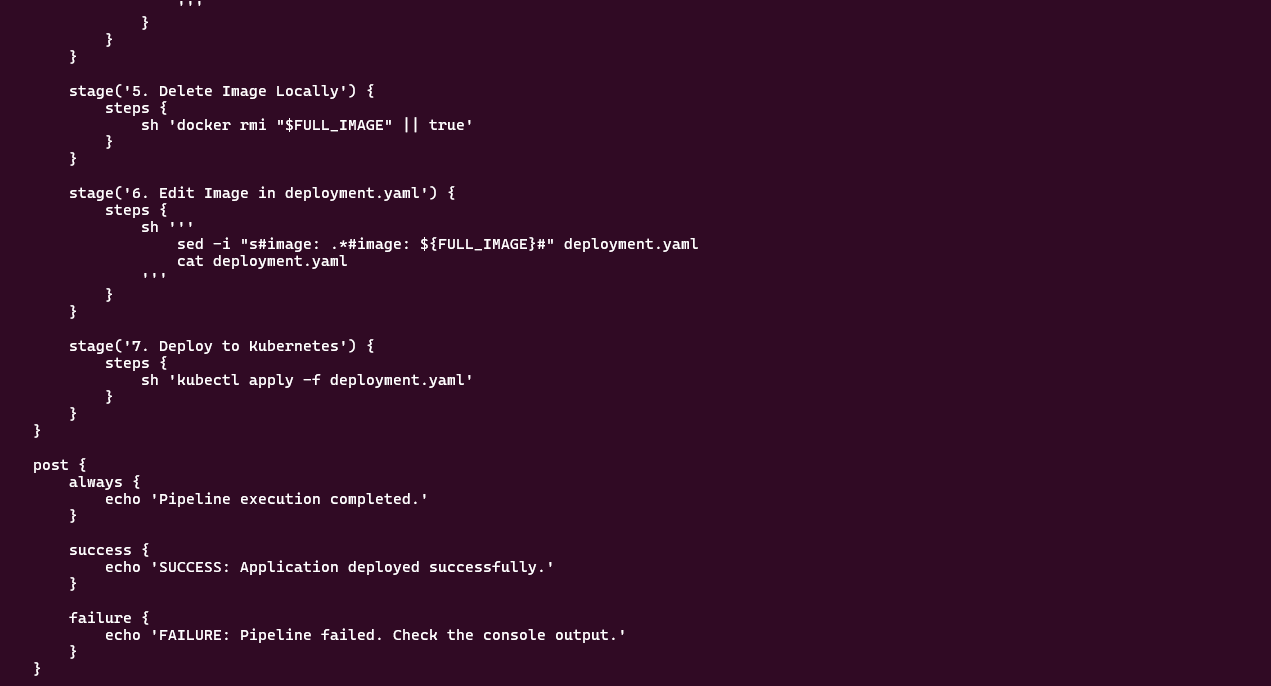
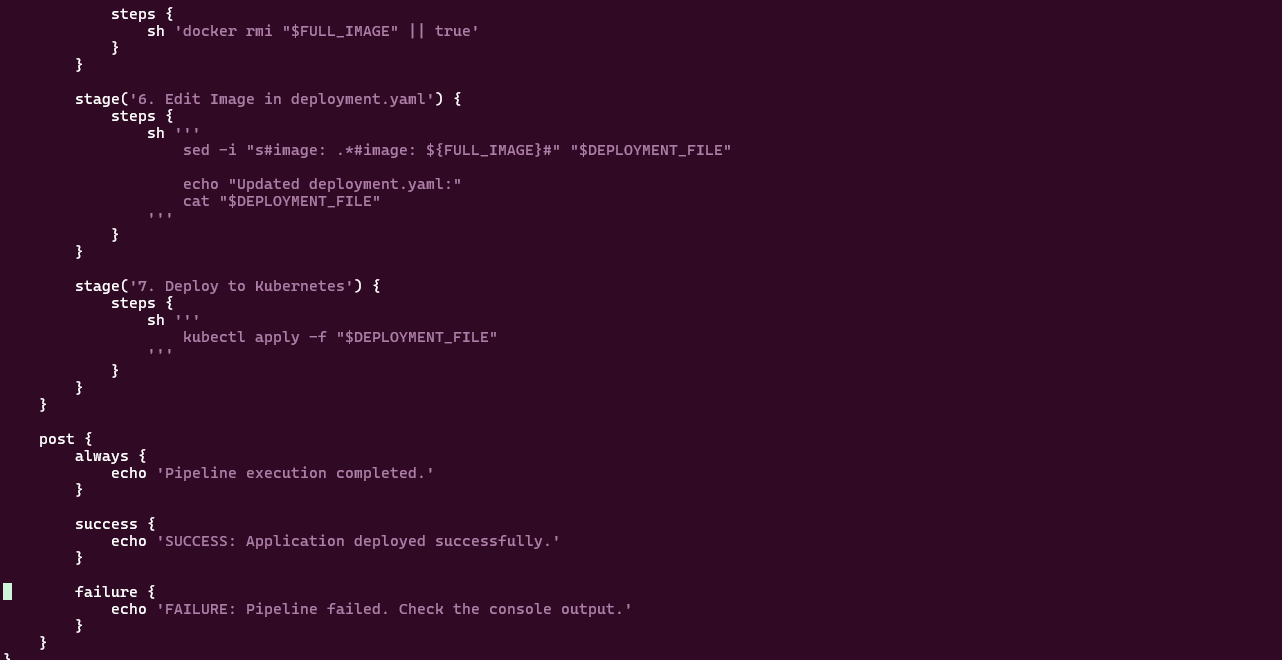
added readme file

diff --git a/CICD/lab22/README.md b/CICD/lab22/README.md
@@ -1,0 +1,241 @@
+# Lab 22: Jenkins Pipeline for Application Deployment
+
+## Overview
+
+This lab demonstrates how to create a Jenkins CI/CD pipeline to automate the deployment of a Java Spring Boot application to a Kubernetes cluster.
+
+The pipeline automates the complete workflow from cloning the application source code to deploying the application on Kubernetes.
+
+The application source code and Dockerfile are cloned from:
+
+`https://github.com/Ibrahim-Adel15/Jenkins_App.git`
+
+The Docker image is pushed to Docker Hub:
+
+`moamenothan1/jenkins-app`
+
+The application is deployed to the `jenkins` namespace in Kubernetes.
+
+---
+
+# Objectives
+
+The Jenkins pipeline automates the following tasks:
+
+1. Clone the application source code and Dockerfile.
+2. Run unit tests.
+3. Build the application.
+4. Build a Docker image.
+5. Push the Docker image to Docker Hub.
+6. Delete the local Docker image.
+7. Update the image in `deployment.yaml`.
+8. Deploy the application to the Kubernetes cluster.
+9. Configure Jenkins post actions for success, failure, and always.
+
+---
+
+# Project Structure
+
+```text
+lab22/
+├── Jenkins_App/
+│   ├── Dockerfile
+│   ├── pom.xml
+│   └── src/
+│       └── main/
+│           └── java/
+│               └── com/
+│                   └── example/
+│                       └── demo/
+│                           └── DemoApplication.java
+├── Jenkinsfile
+├── deployment.yaml
+└── screenshots/
+    ├── create_credentials.png
+    ├── deployment.png
+    ├── jenkinsfile.png
+    ├── job_create.png
+    └── pipeline_finished.png
+```
+
+---
+
+# Technologies Used
+
+- Jenkins
+- Jenkins Pipeline
+- Git
+- GitHub
+- Maven
+- Java 17
+- Docker
+- Docker Hub
+- Kubernetes
+- kubectl
+- Minikube
+
+---
+
+# Jenkins Pipeline
+
+The pipeline is defined in:
+
+```text
+Jenkinsfile
+```
+
+The complete Jenkinsfile is:
+
+```groovy
+pipeline {
+    agent any
+
+    environment {
+        IMAGE_NAME = 'moamenothan1/jenkins-app'
+        IMAGE_TAG = "${BUILD_NUMBER}"
+        FULL_IMAGE = "${IMAGE_NAME}:${IMAGE_TAG}"
+
+        APP_DIR = 'CICD/lab22/Jenkins_App'
+        DEPLOYMENT_FILE = 'CICD/lab22/deployment.yaml'
+    }
+
+    stages {
+
+        stage('0. Clone Application Source') {
+            steps {
+                sh '''
+                    rm -rf "$APP_DIR"
+                    git clone https://github.com/Ibrahim-Adel15/Jenkins_App.git "$APP_DIR"
+                '''
+            }
+        }
+
+        stage('1. Run Unit Test') {
+            steps {
+                dir("${APP_DIR}") {
+                    sh '''
+                        docker run --rm \
+                            -v "$PWD:/app" \
+                            -w /app \
+                            maven:3.9-eclipse-temurin-17 \
+                            mvn test
+                    '''
+                }
+            }
+        }
+
+        stage('2. Build App') {
+            steps {
+                dir("${APP_DIR}") {
+                    sh '''
+                        docker run --rm \
+                            -v "$PWD:/app" \
+                            -w /app \
+                            maven:3.9-eclipse-temurin-17 \
+                            mvn clean package -DskipTests
+                    '''
+                }
+            }
+        }
+
+        stage('3. Build Docker Image') {
+            steps {
+                dir("${APP_DIR}") {
+                    sh 'docker build -t ${FULL_IMAGE} .'
+                }
+            }
+        }
+
+        stage('4. Push Image to Docker Hub') {
+            steps {
+                withCredentials([
+                    usernamePassword(
+                        credentialsId: 'dockerhub-credentials',
+                        usernameVariable: 'DOCKERHUB_USER',
+                        passwordVariable: 'DOCKERHUB_PASS'
+                    )
+                ]) {
+                    sh '''
+                        echo "$DOCKERHUB_PASS" | docker login \
+                            -u "$DOCKERHUB_USER" \
+                            --password-stdin
+
+                        docker push "$FULL_IMAGE"
+
+                        docker logout
+                    '''
+                }
+            }
+        }
+
+        stage('5. Delete Image Locally') {
+            steps {
+                sh 'docker rmi "$FULL_IMAGE" || true'
+            }
+        }
+
+        stage('6. Edit Image in deployment.yaml') {
+            steps {
+                sh '''
+                    sed -i "s#image: .*#image: ${FULL_IMAGE}#" "$DEPLOYMENT_FILE"
+
+                    echo "Updated deployment.yaml:"
+                    cat "$DEPLOYMENT_FILE"
+                '''
+            }
+        }
+
+        stage('7. Deploy to Kubernetes') {
+            steps {
+                sh '''
+                    kubectl apply -f "$DEPLOYMENT_FILE"
+                '''
+            }
+        }
+    }
+
+    post {
+        always {
+            echo 'Pipeline execution completed.'
+        }
+
+        success {
+            echo 'SUCCESS: Application deployed successfully.'
+        }
+
+        failure {
+            echo 'FAILURE: Pipeline failed. Check the console output.'
+        }
+    }
+}
+```
+
+---
+
+# Pipeline Stages Explanation
+
+## 0. Clone Application Source
+
+The pipeline clones the application repository:
+
+```text
+https://github.com/Ibrahim-Adel15/Jenkins_App.git
+```
+
+The source code and Dockerfile are cloned into:
+
+```text
+CICD/lab22/Jenkins_App
+```
+
+---
+
+## 1. Run Unit Test
+
+The application unit tests are executed using Maven.
+
+```bash
+mvn test
+```
+
+However, Maven is not executed directly on the Jenkins host. It is executed inside a Docker container using
